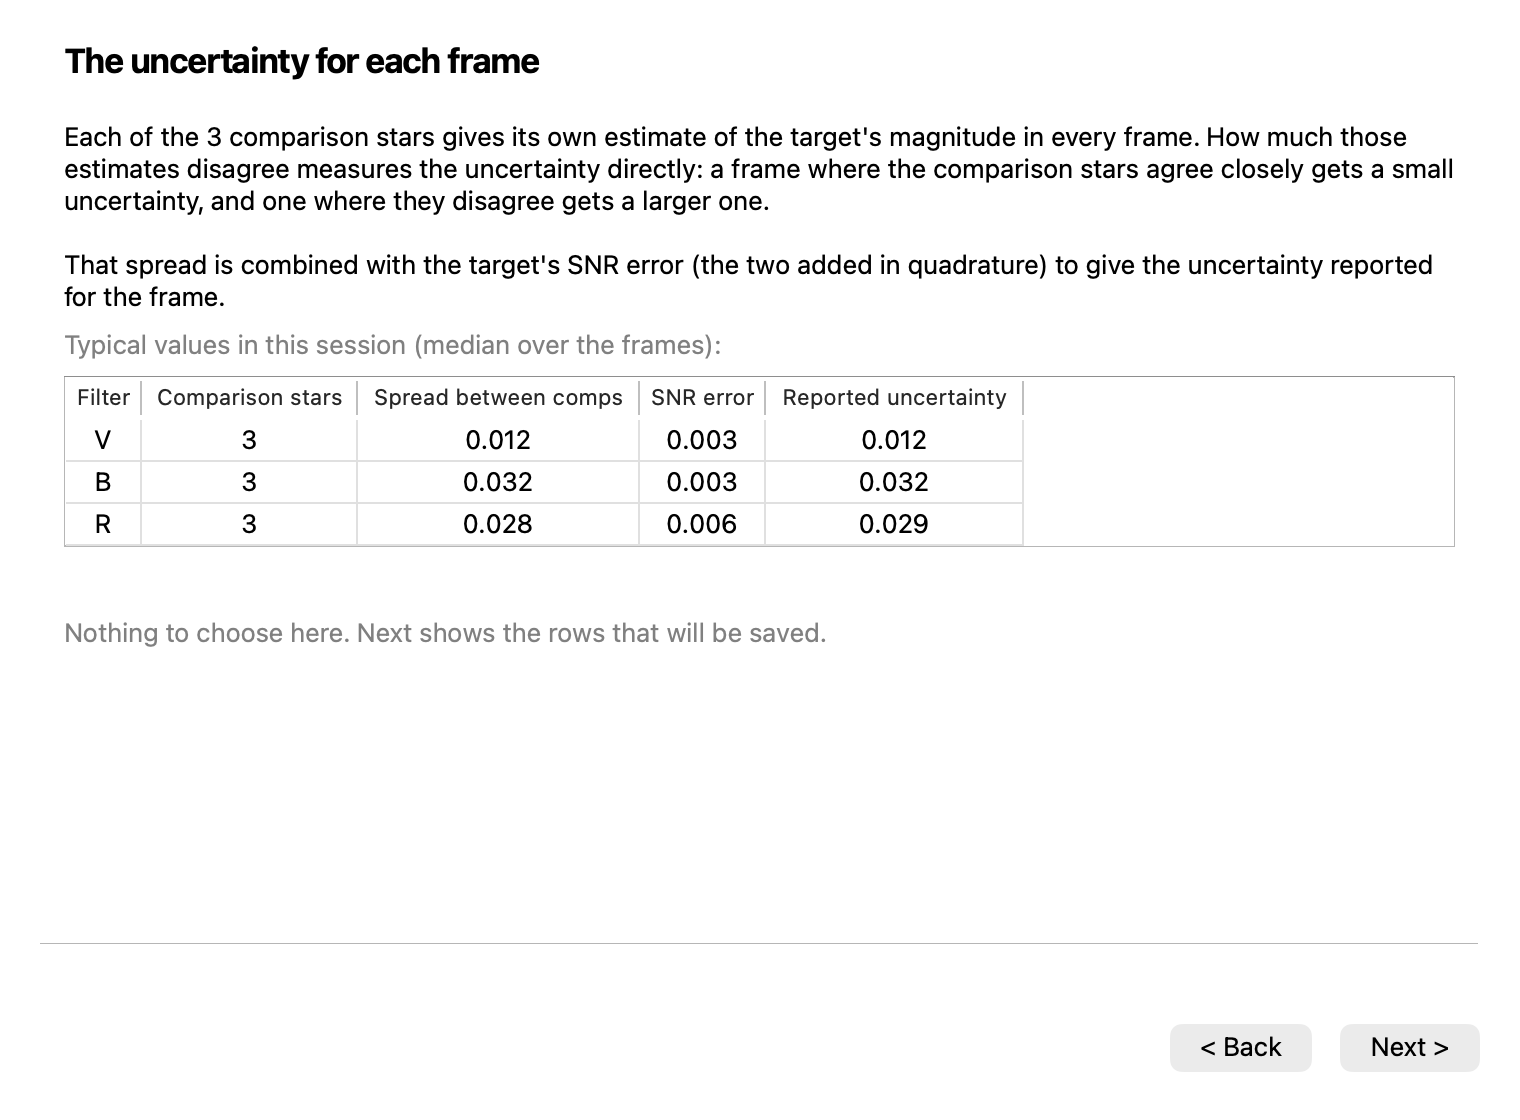
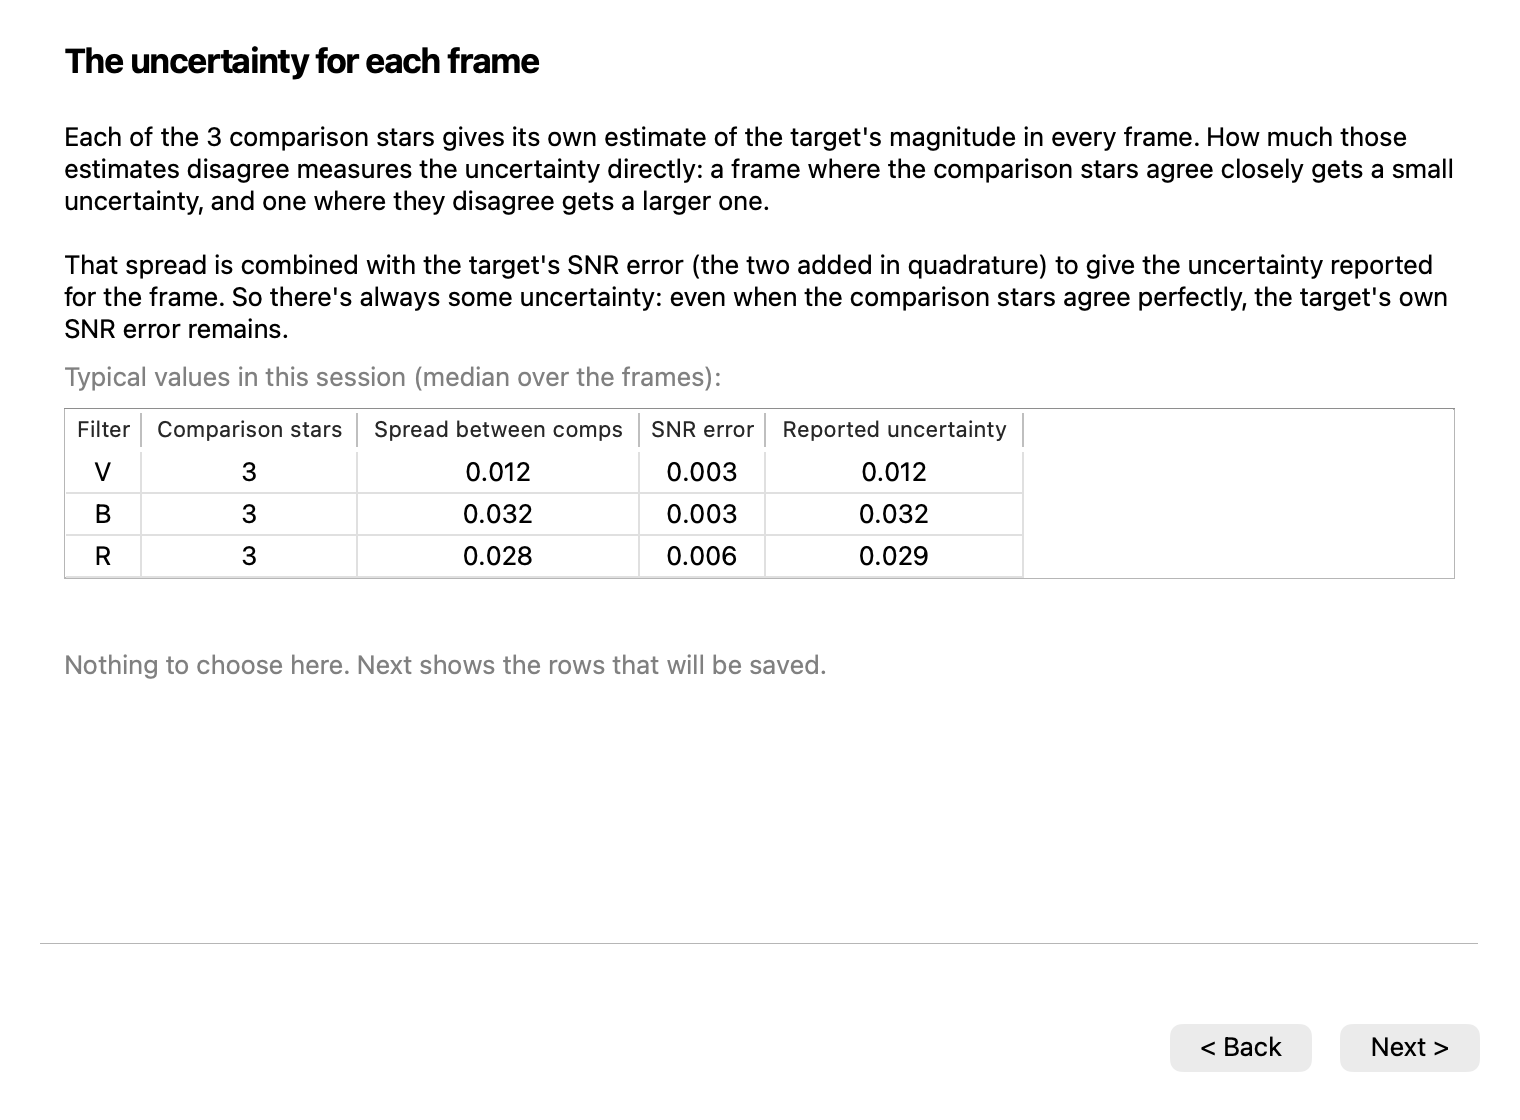
Wizard: note that the SNR error is always part of the uncertainty

Changed region(s): [[0.0309, 0.25, 0.9586, 0.5312], [0.0309, 0.5625, 0.5566, 0.625]]

diff --git a/src/photometry_workbench/ui/submission_wizard.py b/src/photometry_workbench/ui/submission_wizard.py
@@ -285,7 +285,8 @@ class _LightCurvePage(QWizardPage):
                 "frame where the comparison stars agree closely gets a small uncertainty, and one where "
                 "they disagree gets a larger one.\n\n"
                 "That spread is combined with the target's SNR error (the two added in quadrature) to "
-                "give the uncertainty reported for the frame."
+                "give the uncertainty reported for the frame. So there's always some uncertainty: even "
+                "when the comparison stars agree perfectly, the target's own SNR error remains."
             )
         else:
             self.text.setText(
